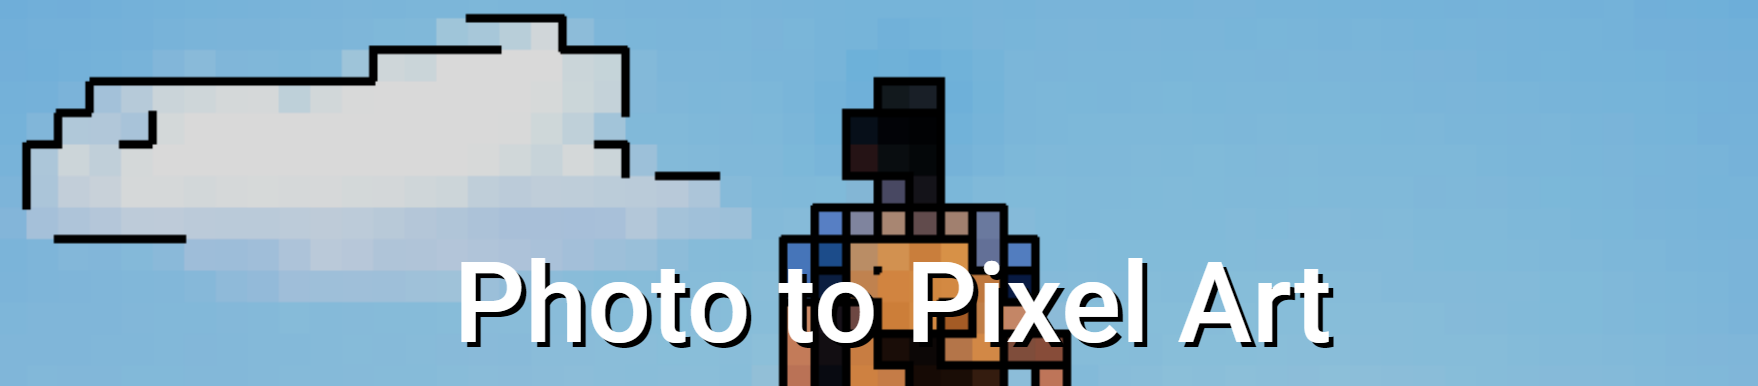
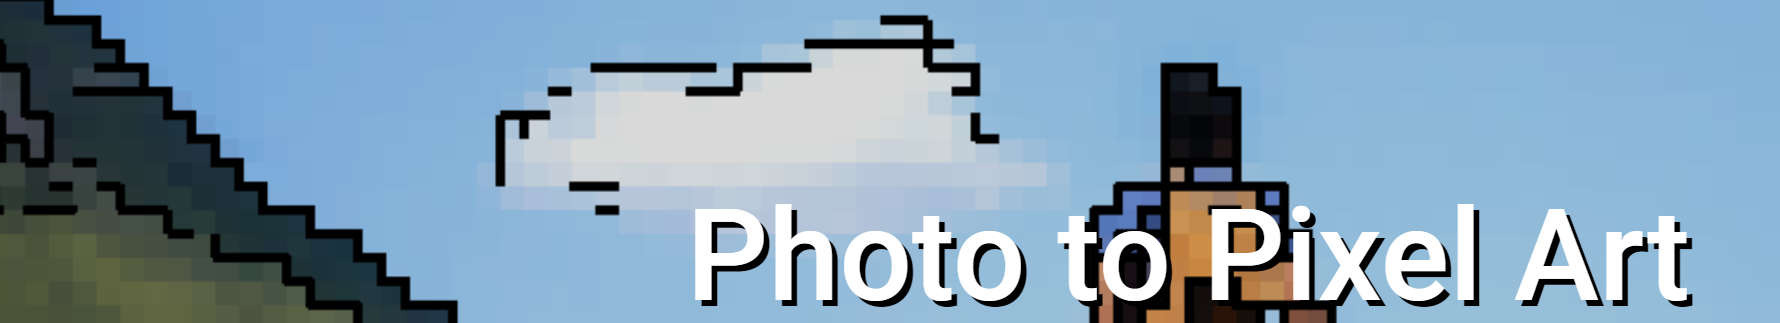
change css p font size

diff --git a/static/css/unit.css b/static/css/unit.css
@@ -226,7 +226,7 @@ header {
 
 #description p {
     font-family: 'Source Serif Pro', Microsoft YaHei, Arial, serif;
-    font-size: 19px;
+    font-size: 16px;
     font-weight: normal;
     color: rgba(0, 0, 0, 0.84) !important;
 }

diff --git a/Logic/Logic_Config.py b/Logic/Logic_Config.py
@@ -6,7 +6,7 @@ YEAR = str(time.localtime().tm_year)
 LOG_FILE_PATH = '/app/log/daily.log'
 
 # Version
-CSS_VERSION_UNIT = '20220605.1'
+CSS_VERSION_UNIT = '20220615.1'
 CSS_VERSION_FONTAWESOME = '6.1.1'
 CDNJS_VERSION_JQUERY = '3.5.1'
 CDNJS_VERSION_BOOTSTRAP = '5.1.3'

diff --git a/README.md b/README.md
@@ -25,18 +25,18 @@ mkdir -p /app/IP2Location
 ```
 git clone https://github.com/Jzou44/CodingTools.git
 
-docker build -t codingtools:v20220605 .
+docker build -t codingtools:v20220615 .
 
-docker run --rm -it -v /mnt/c/app:/app -v /mnt/c/tmp:/tmp -p 8080:8080 codingtools:v20220605 bash
-
-
-docker run -d -v /mnt/c/app:/app -v /mnt/c/tmp:/tmp -p 8080:8080 codingtools:v20220605
+docker run --rm -it -v /mnt/c/app:/app -v /mnt/c/tmp:/tmp -p 8080:8080 codingtools:v20220615 bash
 
 
-docker run -d --restart=always -v /app:/app -v /tmp:/tmp -p 8080:8080 codingtools:v20220605
+docker run -d -v /mnt/c/app:/app -v /mnt/c/tmp:/tmp -p 8080:8080 codingtools:v20220615
 
 
-docker run --rm -it -v /app:/app -v /tmp:/tmp -p 8080:8080 codingtools:v20220605 bash
+docker run -d --restart=always -v /app:/app -v /tmp:/tmp -p 8080:8080 codingtools:v20220615
+
+
+docker run --rm -it -v /app:/app -v /tmp:/tmp -p 8080:8080 codingtools:v20220615 bash
 ```
 
 ### 配置dns
